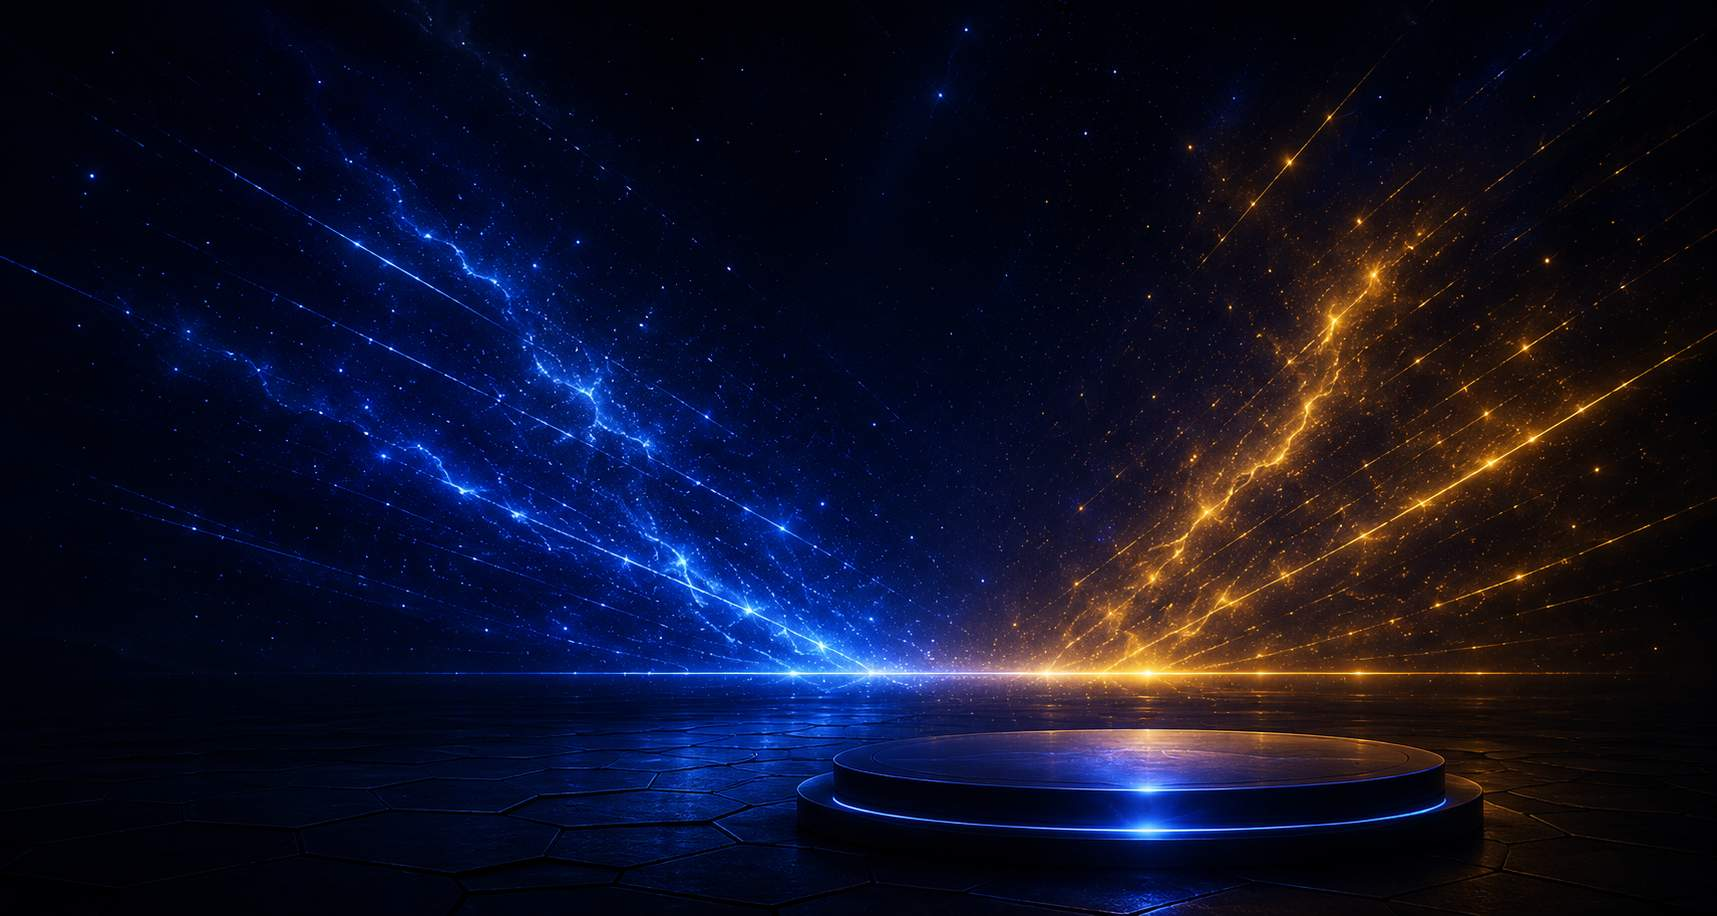
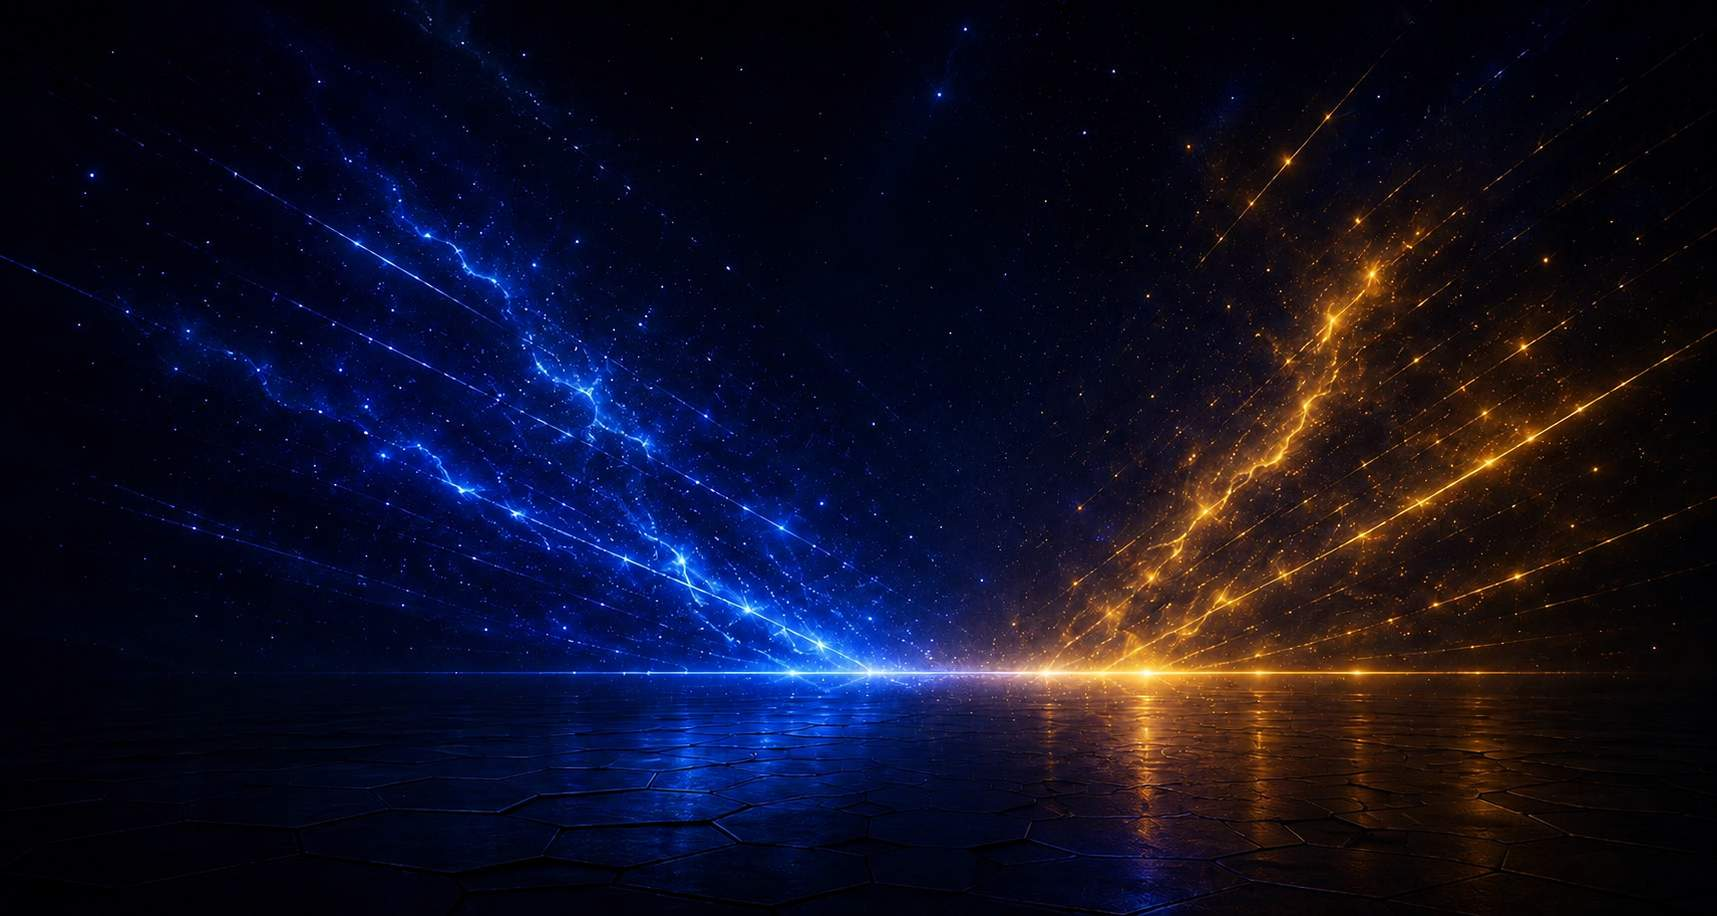
MVP Polish, Phase 1 complete

diff --git a/src/styles/typography.css b/src/styles/typography.css
@@ -16,7 +16,6 @@
 	);
 
       }
-
       .type-brush-hero {
 		font-family: 'RoadRage';
 		@apply inline-block 
@@ -43,8 +42,7 @@
             uppercase tracking-[0.06em] leading-none rotate-[-1deg] 
             bg-gradient-to-b from-white via-slate-200 to-slate-500
             bg-clip-text text-transparent drop-shadow-[0_6px_0_rgba(0,0,0,0.7)];
-        }
-
+      }
 	.type-brush-price {
 		font-family: 'RoadRage';
 		@apply 
@@ -58,7 +56,6 @@
             bg-gradient-to-b from-yellow-100 via-yellow-400 to-yellow-900 
             bg-clip-text text-transparent;
 	}
-
 	.type-druk-hero {
 		font-family: 'Druk';
 		@apply whitespace-nowrap
@@ -73,7 +70,6 @@
             bg-clip-text text-transparent shadow-lg drop-shadow-[0_9px_0_rgba(0,0,0,0.9)] 
             transition duration-300 hover:scale-105 hover:drop-shadow-[0_10px_0_rgba(0,0,0,0.85)];
 	}
-
 	.type-druk-heroclamp {
 		font-family: 'Druk';
 		@apply whitespace-nowrap
@@ -88,7 +84,6 @@
 		7.65rem
 	);
       }
-
 	.type-druk-clean {
 		font-family: 'Druk';
 		@apply whitespace-nowrap
@@ -102,7 +97,6 @@
             bg-gradient-to-b from-white via-slate-200 to-slate-600 
             bg-clip-text text-transparent;
 	}
-
       .type-druk-cleanclamp {
             font-family: 'Druk';
             @apply whitespace-nowrap
@@ -116,7 +110,6 @@
 		5.65rem
 	);
       }
-
  	.type-druk-gold {
 		font-family: 'Druk';
 		@apply whitespace-nowrap
@@ -131,7 +124,6 @@
             bg-clip-text text-transparent shadow-lg drop-shadow-[0_9px_0_rgba(0,0,0,0.9)] 
             transition duration-300 hover:scale-105 hover:drop-shadow-[0_10px_0_rgba(0,0,0,0.85)];
 	}
-
 	.type-ui-statement-polish {
 		font-family: 'Inter';
 		@apply 
@@ -144,7 +136,6 @@
             font-[300] leading-tight tracking-[-0.02em] 
             text-[#f1f1f1]/95;
 	}
-
 	.type-ui-statement-gold {
 		font-family: 'Inter';
 		@apply 
@@ -157,7 +148,6 @@
             font-[300] leading-[0.84] tracking-[-0.02em] 
             text-[#d89b16];
 	}
-
 	.type-ui-statement-bold {
 		font-family: 'Druk';
 		@apply 
@@ -170,7 +160,6 @@
             uppercase leading-none 
             text-white;
 	}
-
     .type-product-title {
 		@apply 
             text-[1.00rem]
@@ -182,7 +171,6 @@
         font-medium 
         text-slate-200;
 	}
-
 	.type-panel-title {
 		@apply 
             text-[0.75rem] 
@@ -194,7 +182,6 @@
         uppercase tracking-[0.22em] 
         text-amber-500;
 	}
-
       .type-promo-title {
  		@apply 
             text-[0.65rem] 
@@ -207,7 +194,6 @@
             uppercase tracking-wide 
             text-amber-400;
 	}
-
 	.type-section-title {
 		@apply 
             text-[0.80rem] 
@@ -232,7 +218,6 @@
             uppercase tracking-[0.28em] 
             text-amber-400;
 	}
-
 	.type-eyebrow-label {
 		@apply 
             text-[0.65rem]
@@ -244,7 +229,6 @@
             uppercase tracking-[0.2em] 
             text-slate-500;
 	}
-
 	.type-metadata {
 		@apply 
             text-[0.80rem]
@@ -255,7 +239,6 @@
             2xl:text-[2.65rem]
             text-slate-500;
 	}
-
 	.type-status-label {
 		@apply 
             text-[0.75rem] 
@@ -267,7 +250,6 @@
             font-bold uppercase tracking-[0.18em] 
             text-green-400;
 	}
-
 	.type-action-label {
 		@apply 
             text-[0.75rem] 
@@ -278,7 +260,6 @@
             2xl:text-[3.15rem]
             font-bold uppercase tracking-wide;
 	}
-
 	.type-cta-label {
 		@apply 
             text-[0.65rem] 
@@ -291,7 +272,6 @@
             uppercase tracking-wide 
             text-amber-400;
 	}
-
 	.type-data-timer {
 		font-family: 'Orbitron';
 		@apply 
@@ -304,7 +284,6 @@
             font-bold tracking-[0.1em] 
             text-slate-100;
 	}
-
 	.type-countdown-timer {
 		font-family: 'Orbitron';
 		@apply 
@@ -317,7 +296,6 @@
             font-bold tracking-[0.12em] 
             text-amber-400;
 	}
-
 	.type-price-primary {
 		font-family: 'Inter';
 		@apply 
@@ -330,7 +308,6 @@
             font-bold leading-none tracking-[-0.06em] 
             text-slate-200;
 	}
-
 	.type-price-compare {
 		font-family: 'Inter';
 		@apply 
@@ -343,7 +320,6 @@
             leading-none 
             text-slate-500 line-through;
 	}
-
 	.type-price-savings {
 		font-family: 'Inter';
 		@apply 
@@ -356,7 +332,6 @@
             font-medium 
             text-[#3fc75d];
 	}
-
 	.type-body {
 		@apply 
             text-[0.95rem] 
@@ -368,7 +343,6 @@
             leading-relaxed 
             text-slate-400;
 	}
-
 	.type-body-prominent {
 		@apply 
             text-[0.55rem] 
@@ -380,7 +354,6 @@
             leading-relaxed 
             text-slate-300;
 	}
-
 	.type-body-quiet {
 		@apply 
             text-[0.95rem] 
@@ -392,7 +365,6 @@
             leading-relaxed 
             text-slate-500;
 	}
-
 	.type-body-overlay {
 		@apply 
             text-[0.95rem] 
@@ -404,7 +376,6 @@
             leading-relaxed 
             text-white;
 	}
-
       .type-utility-label {
             font-family: 'Industry';
 
@@ -418,6 +389,4 @@
 
             letter-spacing: clamp(0.06em, 0.12vw, 0.14em);
       }
-
-
 }

diff --git a/src/styles/blog.css b/src/styles/blog.css
@@ -1,0 +1,29 @@
+.blog-content img {
+	display: block;
+	margin: 2rem auto;
+
+	max-width: 250px;
+
+	width: 100%;
+	height: auto;
+
+	border-radius: 1rem;
+
+	border: 1px solid rgba(71, 85, 105, 0.8);
+
+	box-shadow:
+		0 10px 20px rgba(0, 0, 0, 0.25),
+		0 0 0 1px rgba(245, 158, 11, 0.05);
+}
+
+.blog-content p {
+	line-height: 1.8;
+}
+
+.blog-content h2 {
+	margin-top: 2.5rem;
+}
+
+.blog-content h3 {
+	margin-top: 2rem;
+}

diff --git a/src/data/products.ts b/src/data/products.ts
@@ -13,6 +13,7 @@ export const products = [
 			wembyImage.src,
 		],
 		category: 'basketball',
+		description: 'Clean PSA 10 rookie card with strong collector appeal and clear slab presentation.',
 		tags: ['graded', 'rookie', 'basketball'],
 	},
 	{
@@ -25,6 +26,7 @@ export const products = [
 			jordanImage.src,
 		],
 		category: 'basketball',
+		description: 'Clean PSA 10 rookie card with strong collector appeal and clear slab presentation.',
 		tags: ['graded', 'rookie', 'basketball'],
 	},
 	{
@@ -37,6 +39,7 @@ export const products = [
 			wembyImage.src,
 		],
 		category: 'football',
+		description: 'Clean PSA 10 rookie card with strong collector appeal and clear slab presentation.',
 		tags: ['graded', 'rookie', 'football'],
 	},
 		{
@@ -49,6 +52,7 @@ export const products = [
 			wembyImage.src,
 		],
 		category: 'basketball',
+		description: 'Clean PSA 10 rookie card with strong collector appeal and clear slab presentation.',
 		tags: ['graded', 'rookie', 'basketball'],
 	},
 	{
@@ -61,6 +65,7 @@ export const products = [
 			jordanImage.src,
 		],
 		category: 'basketball',
+		description: 'Clean PSA 10 rookie card with strong collector appeal and clear slab presentation.',
 		tags: ['graded', 'rookie', 'basketball'],
 	},
 	{
@@ -73,6 +78,7 @@ export const products = [
 			joshAllenImage.src,
 		],
 		category: 'football',
+		description: 'Clean PSA 10 rookie card with strong collector appeal and clear slab presentation.',
 		tags: ['graded', 'rookie', 'football'],
 	},
 		{
@@ -85,6 +91,7 @@ export const products = [
 			wembyImage.src,
 		],
 		category: 'basketball',
+		description: 'Clean PSA 10 rookie card with strong collector appeal and clear slab presentation.',
 		tags: ['graded', 'rookie', 'basketball'],
 	},
 	{
@@ -97,6 +104,7 @@ export const products = [
 			jordanImage.src,
 		],
 		category: 'basketball',
+		description: 'Clean PSA 10 rookie card with strong collector appeal and clear slab presentation.',
 		tags: ['graded', 'rookie', 'basketball'],
 	},
 	{
@@ -109,6 +117,7 @@ export const products = [
 			joshAllenImage.src,
 		],
 		category: 'football',
+		description: 'Clean PSA 10 rookie card with strong collector appeal and clear slab presentation.',
 		tags: ['graded', 'rookie', 'football'],
 	},
 ] as const;

diff --git a/src/styles/global.css b/src/styles/global.css
@@ -1,5 +1,6 @@
 @import "tailwindcss";
 @import "./typography.css";
+@import './blog.css';
 
 @font-face {
   font-family: 'RoadRage';

diff --git a/src/content/blog/how-to-start-collecting-sports-cards.md b/src/content/blog/how-to-start-collecting-sports-cards.md
@@ -7,7 +7,24 @@ readTime: "6 min read"
 status: "Featured"
 ---
 
-Alright folks... Bat Dog here.
+Alright folks... Bat Dog here. <br /><br /> Testing, is this thing on?
+
+*Collector note*  
+<br />
+**PSA 10**  
+<br />
+
+    - Centering
+    - Sharp corners
+    - Strong eye appeal
+
+    1. Buy cards you enjoy
+    2. Learn the market
+    3. Focus your collection
+
+[View our inventory](/shop)
+
+![Josh Allen Rookie](/images/blog/how-to-start-collecting-sports-cards/josh-allen-rookie.jpg)
 
 This article will become a practical beginner guide for new collectors.
 